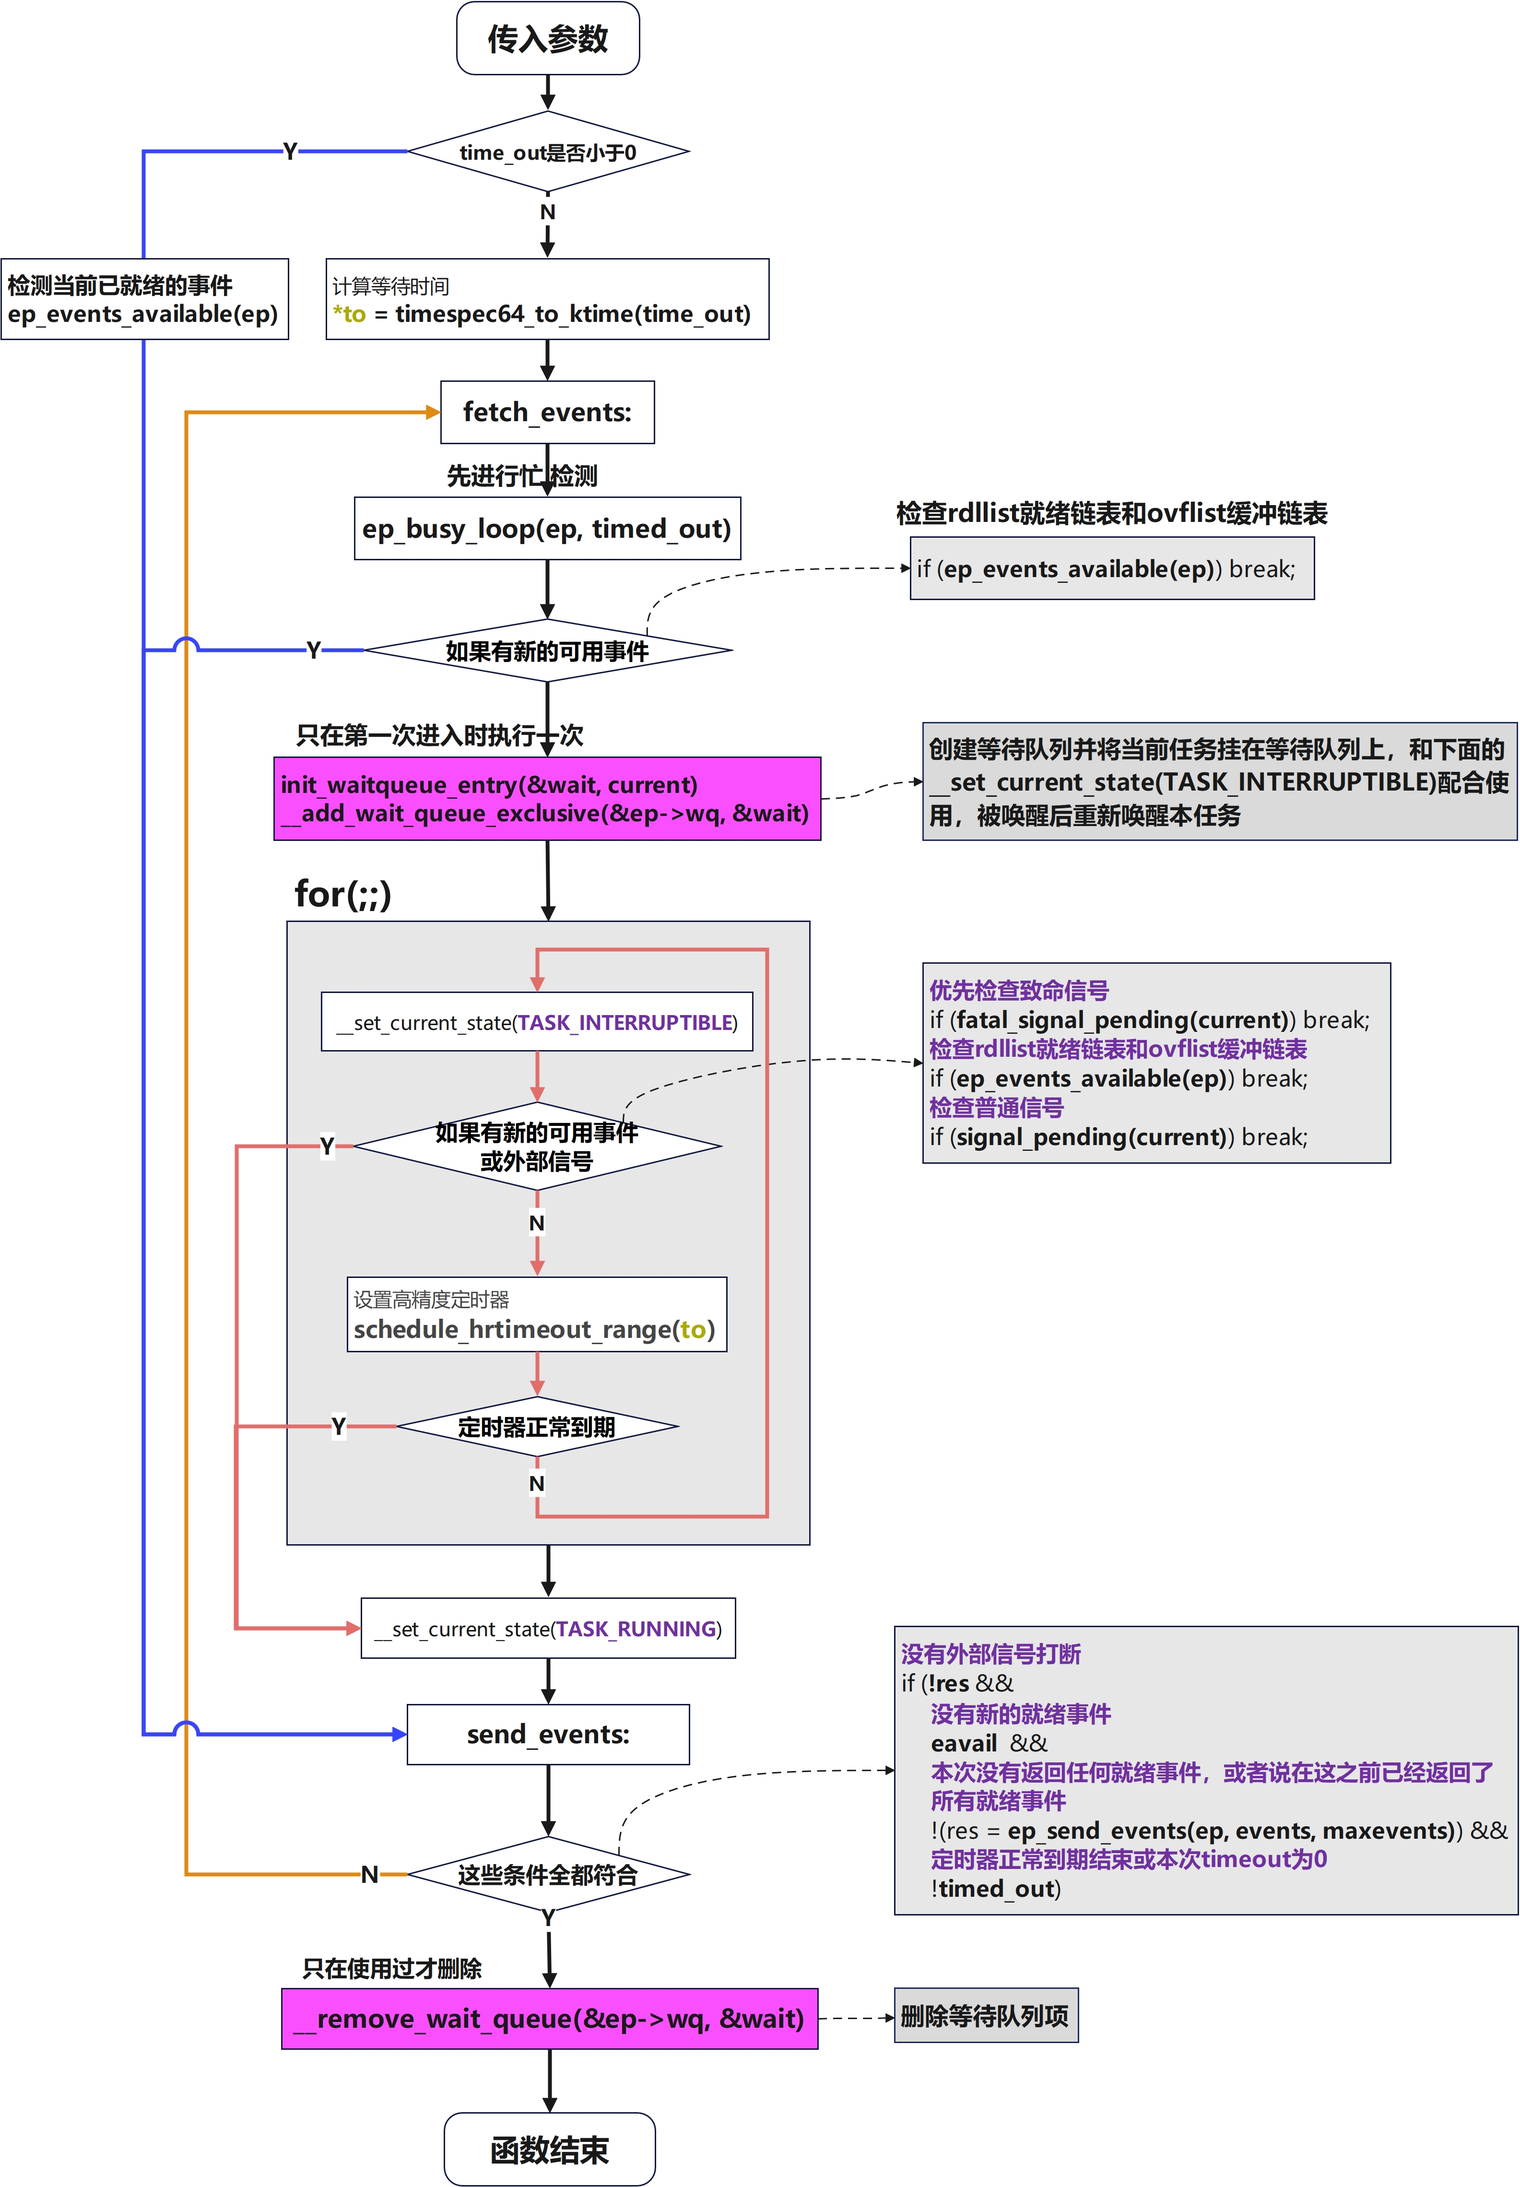
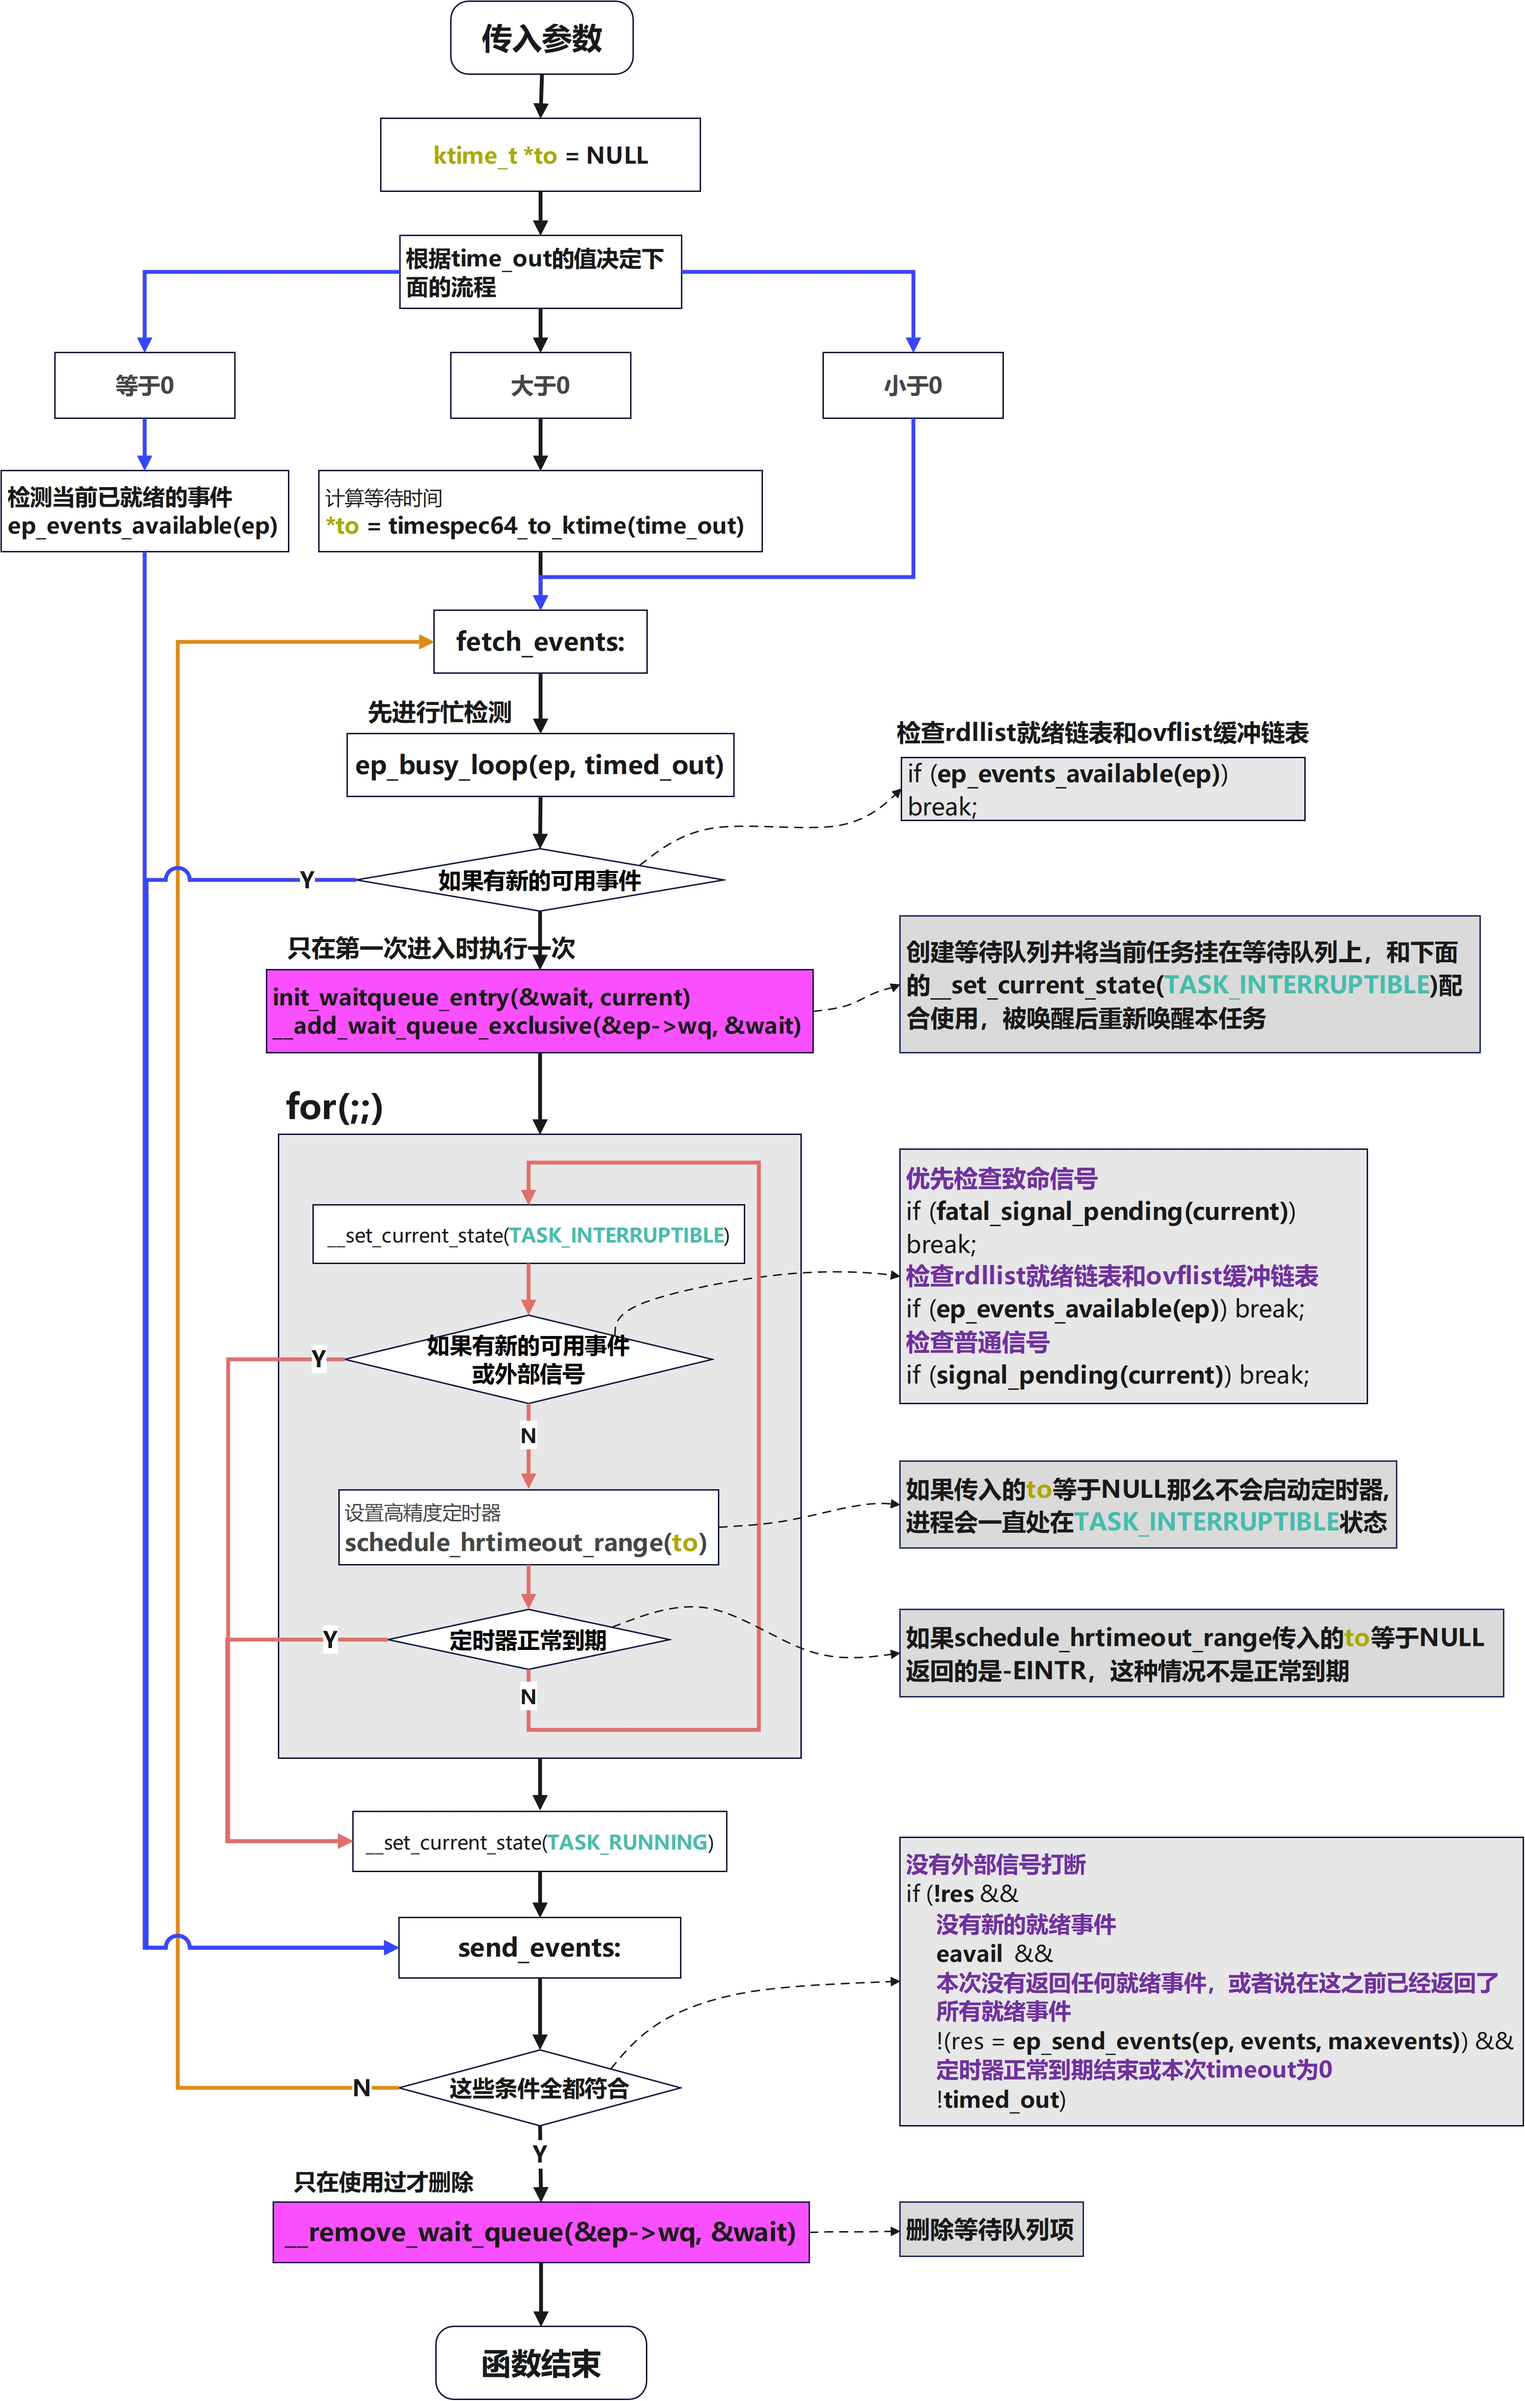
更新

Changed region(s): [[0.0, 0.0, 0.9997, 1.0]]

diff --git a/06_Linux/03_IO模型/01_IO多路复用模型/02_epoll原理分析/01_epoll接口原理分析.md b/06_Linux/03_IO模型/01_IO多路复用模型/02_epoll原理分析/01_epoll接口原理分析.md
@@ -599,6 +599,8 @@ struct eventpoll {
 
 `ovflist`在初始化和不被启用时会被指向`EP_UNACTIVE_PTR`这个特殊值，在`ep_scan_ready_list`函数中对`rdllist`操作时，这时不能写入`rdllist`。就会先将`ovflist`指向`NULL`，这时后续活跃的句柄就会写入`ovflist`而不是`rdllist`
 
+<img src="./img/ep_ovflist.jpg" alt="ep_ovflist" />
+
 ### 2. struct epitem
 
 每当我们调用`epoll_ctl`增加一个`fd`时，内核就会为我们创建出一个`epitem`实例，并且把这个实例作为红黑树的一个子节点，增加到`eventpoll`结构体中的红黑树中，对应的字段是`rbr`。这之后，查找每一个`fd`上是否有事件发生都是通过红黑树上的`epitem`来操作
@@ -685,6 +687,7 @@ struct epitem {
 > 笔者注：除注释外，所有代码均未删改
 
 ```c
+// linux-5.4/fs/eventpoll.c
 /* Wait structure used by the poll hooks */
 struct eppoll_entry
 {
@@ -1125,13 +1128,15 @@ send_events:
 
 `ep_poll`函数对用户态提供了灵活的接口，自身在高并发的场景下也有专门的优化处理，**有四种理解角度**
 
-1. `time_out`小于`0`跳过中间流程只做查询动作，这时用户态就是只做查询而不会阻塞接口
+1. `time_out`小于`0`时，一直阻塞接口直到监听的句柄有任何一个活跃
 
-2. `time_out`大于`0`时，监听一个永远不会活跃的句柄，这时用户态会一直阻塞在`epoll_wait`接口`time_out`时间，并且不会占用`CPU`资源
+2. `time_out`等于`0`时，跳过中间流程只做查询动作，这时用户态就是只做查询而不会阻塞接口
 
-3. `time_out`大于`0`时，监听一个普通句柄的常规流程
+3. `time_out`大于`0`时，监听一个永远不会活跃的句柄，这时用户态会一直阻塞在`epoll_wait`接口`time_out`时间，并且不会占用`CPU`资源
 
-4. 极高并发下，退化成忙检测的状态
+4. `time_out`大于`0`时，监听一个普通句柄的常规流程
+
+5. 极高并发下，退化成忙检测的状态
 
     在极高的并发下可以认为，`ep_busy_loop`永远会查询到新的就绪事件，会直接`goto`到`send_events`最后。同时永远也不可能发送完所有的事件，又会跳转回`fetch_events`，重复这轮循环。这种设计只在一个函数内部，不依赖复杂的状态机。在高并发下由于只执行了很少的代码，会节约大量的`CPU`资源，在第并发时又会自动切换回正常流程，设计极为精妙
 
@@ -1149,6 +1154,7 @@ send_events:
 > 笔者注：下文代码已格式化处理，并适当简化只保留核心逻辑
 
 ```c++
+// linux-5.4/fs/eventpoll.c
 static int ep_poll_callback(wait_queue_entry_t *wait, unsigned mode, int sync, void *key)
 {
 	int pwake = 0;
@@ -1489,55 +1495,12 @@ static __poll_t ep_send_events_proc(struct eventpoll *ep, struct list_head *head
 
 ## 七、epoll实例增删改查
 
-### 1. ep_find函数
-
-在红黑树中查找节点
-
-**源代码如下**
-
-> 笔者注：除注释外，所有代码均未删改
-
-```c
-static struct epitem *ep_find(struct eventpoll *ep, struct file *file, int fd)
-{
-    int kcmp;
-    struct rb_node *rbp;
-    struct epitem *epi, *epir = NULL;
-    struct epoll_filefd ffd;
-
-    /* 设置epoll_filefd结构体，用于比较查找 */
-    ep_set_ffd(&ffd, file, fd);
-
-    /* 遍历红黑树 */
-    for (rbp = ep->rbr.rb_root.rb_node; rbp; ) {
-        /* 通过父节点获取对应的 epitem 结构体 */
-        epi = rb_entry(rbp, struct epitem, rbn);
-        /* 比较当前节点与要插入的节点 */
-        kcmp = ep_cmp_ffd(&ffd, &epi->ffd);
-         /* 如果要插入节点的关键字大于当前节点，则向右子树查找,否则向左子树查找 */
-        if (kcmp > 0)
-            rbp = rbp->rb_right;
-        else if (kcmp < 0)
-            rbp = rbp->rb_left;
-        else {
-            epir = epi;
-            break;
-        }
-    }
-
-    return epir;
-}
-```
-
-**核心思想**
-
-采用深度优先的策略，遍历红黑树找到目标节点
-
-### 2.  ep_insert函数
+### 1.  ep_insert函数
 
 > 笔者注：下文代码已格式化处理，并适当简化只保留核心逻辑
 
 ```c
+// linux-5.4/fs/eventpoll.c
 /**
  * 设置等待队列回调函数是ep_poll_callback，并将对应的等待队列和对应的epitem节点记录
  * 在新创建的eppoll_entry节点中，其加入到对应的epitem节点的等待队列链表中
@@ -1565,6 +1528,7 @@ static void ep_ptable_queue_proc(struct file *file, wait_queue_head_t *whead,
 	}
 }
 
+// linux-5.4/fs/eventpoll.c
 static int ep_insert(struct eventpoll *ep, const struct epoll_event *event,
 		     struct file *tfile, int fd, int full_check)
 {
@@ -1594,8 +1558,8 @@ static int ep_insert(struct eventpoll *ep, const struct epoll_event *event,
 	init_poll_funcptr(&epq.pt, ep_ptable_queue_proc);
 
 	/**
-     * 把新 epitem 接到目标文件的 poll/waitqueue 机制上，并顺便读出「此刻是否已经就绪」的事件位
-     * 需要注意在此操作完成后，投票回调函数就可以开始处理新的项了
+     * 把新epitem接到目标文件的poll/waitqueue队列上，并顺便读出此刻是否已经就绪的事件位
+     * 需要注意在此操作完成后注册的回调函数就可以开始处理新的项了
 	 */
 	revents = ep_item_poll(epi, &epq.pt, 1);
 
@@ -1604,7 +1568,10 @@ static int ep_insert(struct eventpoll *ep, const struct epoll_event *event,
 	/* 将节点插入红黑树中 */
 	ep_rbtree_insert(ep, epi);
 
-    /* We have to drop the new item inside our item list to keep track of it */
+    /**
+     * We have to drop the new item inside our item list to keep track of it
+     * 我们得从我们的物品清单中删除这个新项目，以便对其进行跟踪管理
+     */
 	write_lock_irq(&ep->lock);
 
     /* 如果该文件已经“准备就绪”，我们就将其放入“已准备就绪”的列表中 */
@@ -1624,7 +1591,10 @@ static int ep_insert(struct eventpoll *ep, const struct epoll_event *event,
     /* ep->user所指向的struct user_struct里的epoll_watches计数(当前被epoll监视的条目数量)加1 */
     atomic_long_inc(&ep->user->epoll_watches);
 
-	/* We have to call this outside the lock */
+	/**
+     * We have to call this outside the lock
+     * 我们得把这个东西从锁里取出来
+     */
 	if (pwake)
 		ep_poll_safewake(&ep->poll_wait);
 
@@ -1634,7 +1604,11 @@ static int ep_insert(struct eventpoll *ep, const struct epoll_event *event,
 
 **核心思想**
 
+函数大致分为三部分
 
+1. 创建和初始化`epitem`节点，将`poll_table->_qproc`设置为`ep_ptable_queue_proc`
+2. 把新`epitem`节点添加到红黑树中，把新`epitem`接到目标文件的`poll/waitqueue`队列上，这一步之后新事件就开始检测新事件了
+3. 检测有没有新的事件，如果有则唤醒就绪队列
 
 **ep_rbtree_insert函数**
 
@@ -1687,7 +1661,7 @@ static void ep_rbtree_insert(struct eventpoll *ep, struct epitem *epi)
 
 采用深度优先的策略，遍历红黑树找到目标节点，然后将节点插入
 
-### 3. ep_remove函数
+### 2. ep_remove函数
 
 从红黑树中删除节点
 
@@ -1696,6 +1670,11 @@ static void ep_rbtree_insert(struct eventpoll *ep, struct epitem *epi)
 > 笔者注：下文代码已格式化处理，并适当简化只保留核心逻辑
 
 ```c
+// linux-5.4/fs/eventpoll.c
+/*
+ * Removes a "struct epitem" from the eventpoll RB tree and deallocates
+ * all the associated resources. Must be called with "mtx" held.
+ */
 static int ep_remove(struct eventpoll *ep, struct epitem *epi)
 {
     /* 移除轮询等待队列钩子 */
@@ -1717,7 +1696,7 @@ static int ep_remove(struct eventpoll *ep, struct epitem *epi)
 }
 ```
 
-### 4. ep_modify函数
+### 3. ep_modify函数
 
 修改节点
 
@@ -1726,6 +1705,7 @@ static int ep_remove(struct eventpoll *ep, struct epitem *epi)
 > 笔者注：下文代码已格式化处理，并适当简化只保留核心逻辑
 
 ```c
+// linux-5.4/fs/eventpoll.c
 /*
  * Modify the interest event mask by dropping an event if the new mask
  * has a match in the current file status. Must be called with "mtx" held.
@@ -1754,11 +1734,12 @@ static int ep_modify(struct eventpoll *ep, struct epitem *epi,
     }
 
     /* 通过vfs_poll或检查rdllink链表，判断当前节点是否准备就绪 */
-    if (ep_item_poll(epi, &pt, 1)) {    
-        if (!ep_is_linked(epi)) {        /* 检查当前接节点是否链接到rdllink链表上 */
+    if (ep_item_poll(epi, &pt, 1)) {
+        /* 检查当前接节点是否链接到rdllink链表上 */
+        if (!ep_is_linked(epi)) {
             list_add_tail(&epi->rdllink, &ep->rdllist);
-            ep_pm_stay_awake(epi);        /* 保持epoll活跃 */
-
+            /* 保持epoll活跃 */
+            ep_pm_stay_awake(epi);
             if (waitqueue_active(&ep->wq))
                 wake_up(&ep->wq);
             if (waitqueue_active(&ep->poll_wait))
@@ -1772,6 +1753,50 @@ static int ep_modify(struct eventpoll *ep, struct epitem *epi,
     return 0;
 }
 ```
+
+### 4. ep_find函数
+
+在红黑树中查找节点
+
+**源代码如下**
+
+> 笔者注：除注释外，所有代码均未删改
+
+```c
+static struct epitem *ep_find(struct eventpoll *ep, struct file *file, int fd)
+{
+    int kcmp;
+    struct rb_node *rbp;
+    struct epitem *epi, *epir = NULL;
+    struct epoll_filefd ffd;
+
+    /* 设置epoll_filefd结构体，用于比较查找 */
+    ep_set_ffd(&ffd, file, fd);
+
+    /* 遍历红黑树 */
+    for (rbp = ep->rbr.rb_root.rb_node; rbp; ) {
+        /* 通过父节点获取对应的 epitem 结构体 */
+        epi = rb_entry(rbp, struct epitem, rbn);
+        /* 比较当前节点与要插入的节点 */
+        kcmp = ep_cmp_ffd(&ffd, &epi->ffd);
+         /* 如果要插入节点的关键字大于当前节点，则向右子树查找,否则向左子树查找 */
+        if (kcmp > 0)
+            rbp = rbp->rb_right;
+        else if (kcmp < 0)
+            rbp = rbp->rb_left;
+        else {
+            epir = epi;
+            break;
+        }
+    }
+
+    return epir;
+}
+```
+
+**核心思想**
+
+采用深度优先的策略，遍历红黑树找到目标节点
 
 ## 八、面向VFS部分的接口
 
